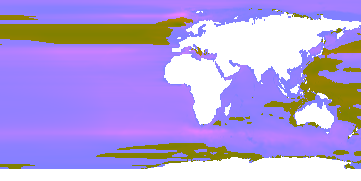
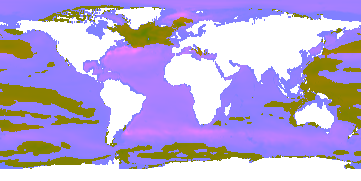
Ocean heat maps regenerated with the regrid fix (#901)
The western hemisphere had been averaged eastward to 360°, inflating the
means: 0-2000 m since 1960 is 0.54 W/m² on average (was 0.65), 76% of
the sea significant (was 83%); 0-700 m 0.38 (0.45); 2005-2025 0.99
(1.08), 44% significant (65%).

diff --git a/src/features/oceanHeat/index.test.ts b/src/features/oceanHeat/index.test.ts
@@ -66,7 +66,7 @@ describe('ocean heat as a feature', () => {
     });
     expect(loaded.urls).toEqual(['/data/ocean-heat-map/0-2000m-1960-2025.png']);
     expect(panels.at(-1)).toMatchObject({ shown: '0-2000m-1960-2025' });
-    expect(shown.said?.()).toMatch(/^0-2000 m, 1960–2025: on average 0\.65 W\/m² gained/);
+    expect(shown.said?.()).toMatch(/^0-2000 m, 1960–2025: on average 0\.54 W\/m² gained/);
     shown.show?.(on, JD);
     shown.show?.({ ...on, ma: 5 }, JD);
     expect(painted.at(-1)).toBeNull();

diff --git a/src/data/oceanHeat.test.ts b/src/data/oceanHeat.test.ts
@@ -18,7 +18,7 @@ describe('the ocean heat maps', () => {
       '0-2000m-2005-2025',
     ]);
     expect(index.maps[1] === undefined ? '' : mapText(index.maps[1])).toBe(
-      '0-2000 m, 1960–2025: on average 0.65 W/m² gained; 83% of the sea significant at 10%.',
+      '0-2000 m, 1960–2025: on average 0.54 W/m² gained; 76% of the sea significant at 10%.',
     );
   });
 
